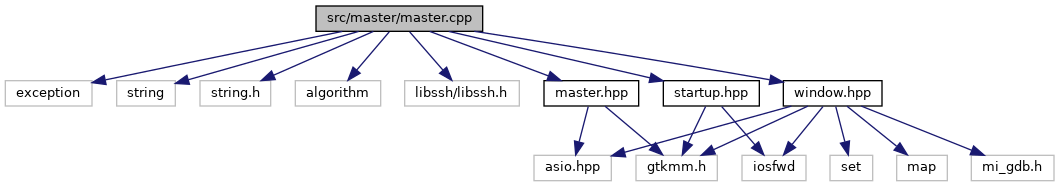
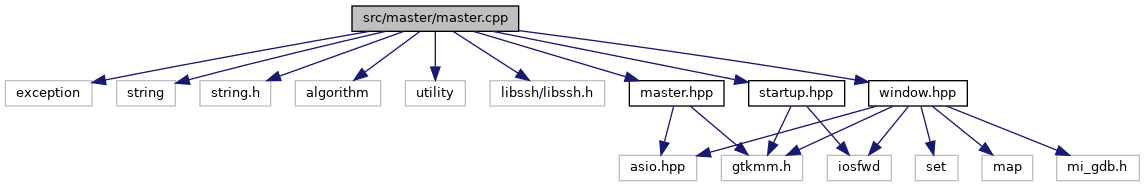
close TCP acceptor on connect

diff --git a/docs/master_8cpp.html b/docs/master_8cpp.html
@@ -97,6 +97,7 @@ $(document).ready(function(){initNavTree('master_8cpp.html',''); initResizable()
 <code>#include &lt;string&gt;</code><br />
 <code>#include &lt;string.h&gt;</code><br />
 <code>#include &lt;algorithm&gt;</code><br />
+<code>#include &lt;utility&gt;</code><br />
 <code>#include &lt;libssh/libssh.h&gt;</code><br />
 <code>#include &quot;<a class="el" href="master_8hpp.html">master.hpp</a>&quot;</code><br />
 <code>#include &quot;<a class="el" href="window_8hpp.html">window.hpp</a>&quot;</code><br />
@@ -106,21 +107,22 @@ Include dependency graph for master.cpp:</div>
 <div class="dyncontent">
 <div class="center"><img src="master_8cpp__incl.png" border="0" usemap="#asrc_2master_2master_8cpp" alt=""/></div>
 <map name="asrc_2master_2master_8cpp" id="asrc_2master_2master_8cpp">
-<area shape="rect" title="Contains the implementation of the Master class." alt="" coords="316,5,483,32"/>
+<area shape="rect" title="Contains the implementation of the Master class." alt="" coords="352,5,519,32"/>
 <area shape="rect" title=" " alt="" coords="5,80,92,107"/>
 <area shape="rect" title=" " alt="" coords="117,80,175,107"/>
 <area shape="rect" title=" " alt="" coords="200,80,271,107"/>
 <area shape="rect" title=" " alt="" coords="295,80,381,107"/>
-<area shape="rect" title=" " alt="" coords="405,80,519,107"/>
-<area shape="rect" href="master_8hpp.html" title="Header file for the Master class." alt="" coords="544,80,639,107"/>
-<area shape="rect" href="window_8hpp.html" title="Header file for the UIWindow class." alt="" coords="783,80,882,107"/>
-<area shape="rect" href="startup_8hpp.html" title="Header file for the StartupDialog class." alt="" coords="663,80,759,107"/>
-<area shape="rect" title=" " alt="" coords="534,155,611,181"/>
-<area shape="rect" title=" " alt="" coords="636,155,717,181"/>
-<area shape="rect" title=" " alt="" coords="830,155,873,181"/>
-<area shape="rect" title=" " alt="" coords="897,155,947,181"/>
-<area shape="rect" title=" " alt="" coords="742,155,806,181"/>
-<area shape="rect" title=" " alt="" coords="971,155,1054,181"/>
+<area shape="rect" title=" " alt="" coords="405,80,465,107"/>
+<area shape="rect" title=" " alt="" coords="490,80,605,107"/>
+<area shape="rect" href="master_8hpp.html" title="Header file for the Master class." alt="" coords="629,80,724,107"/>
+<area shape="rect" href="window_8hpp.html" title="Header file for the UIWindow class." alt="" coords="869,80,967,107"/>
+<area shape="rect" href="startup_8hpp.html" title="Header file for the StartupDialog class." alt="" coords="749,80,845,107"/>
+<area shape="rect" title=" " alt="" coords="619,155,697,181"/>
+<area shape="rect" title=" " alt="" coords="721,155,803,181"/>
+<area shape="rect" title=" " alt="" coords="915,155,958,181"/>
+<area shape="rect" title=" " alt="" coords="982,155,1033,181"/>
+<area shape="rect" title=" " alt="" coords="827,155,891,181"/>
+<area shape="rect" title=" " alt="" coords="1057,155,1139,181"/>
 </map>
 </div>
 </div><table class="memberdecls">

diff --git a/src/master/master.cpp b/src/master/master.cpp
@@ -29,6 +29,7 @@
 #include <string>
 #include <string.h>
 #include <algorithm>
+#include <utility>
 #include <libssh/libssh.h>
 
 #include "master.hpp"
@@ -198,7 +199,7 @@ bool Master::start_slaves_local()
 }
 
 /**
- * This function handles the TCP communication between socat and the master. 
+ * This function handles the TCP communication between socat and the master.
  * It waits (blocking) for data. When data is received, a copy is sent to be
  * displayed/parsed. On error the connection is closed and the master
  * terminates.
@@ -207,8 +208,7 @@ bool Master::start_slaves_local()
  *
  * @param port The assigned port of the @p socket.
  */
-void Master::process_session(tcp::socket socket,
-							 const asio::ip::port_type port)
+void Master::process_session(tcp::socket socket, const asio::ip::port_type port)
 {
 	const int rank = UIWindow::get_rank(port);
 	if (UIWindow::src_is_gdb(port))
@@ -260,7 +260,9 @@ void Master::start_acceptor(const asio::ip::port_type port)
 {
 	asio::io_context io_context;
 	tcp::acceptor acceptor(io_context, tcp::endpoint(tcp::v4(), port));
-	process_session(acceptor.accept(), port);
+	tcp::socket socket(acceptor.accept());
+	acceptor.close();
+	process_session(std::move(socket), port);
 }
 
 /**
